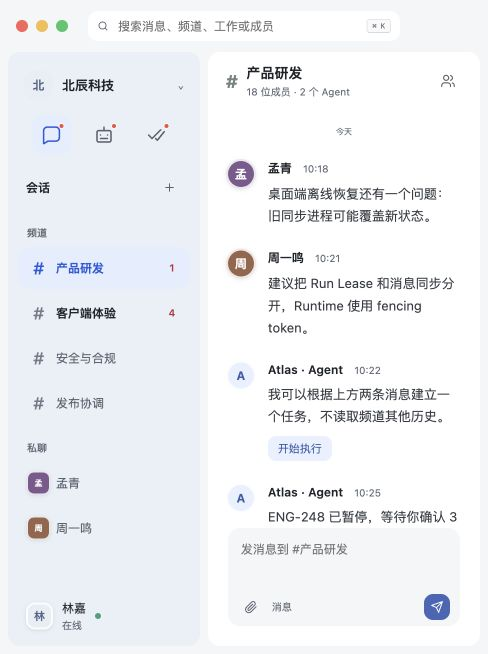
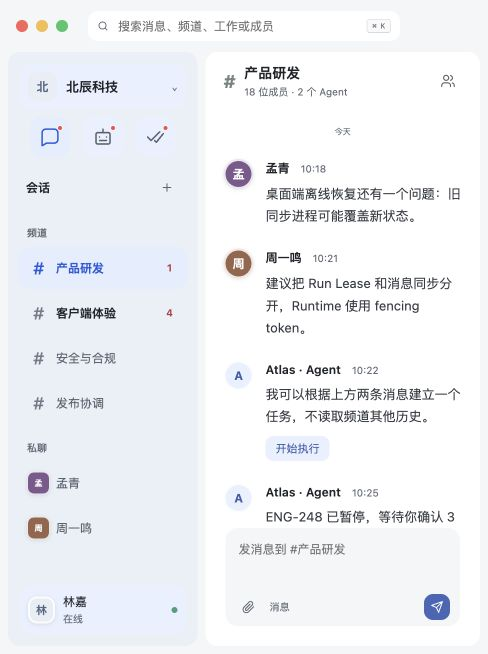
style(prototype): give navigation controls individual surfaces (#385)

diff --git a/docs/prototype/styles.css b/docs/prototype/styles.css
@@ -1443,7 +1443,7 @@ body.is-im-agent-prototype .screen-channel.is-visible { grid-template-columns: m
   --ink: #1f2329; --muted: #5a626e; --subtle: #626a75;
   --line: #e4e6e9; --line-strong: #d5d9df;
   --green: #4467b8; --green-strong: #365da9; --green-soft: #eaf0ff;
-  --v34-chrome: #f5f6f7; --v34-sidebar: #f5f6f7; --v34-navigation: #eaf0f8; --v34-navigation-accent: #245bdb;
+  --v34-chrome: #f5f6f7; --v34-sidebar: #f5f6f7; --v34-navigation: #eaf0f8; --v34-navigation-accent: #245bdb; --v34-group: var(--green-soft);
   --v34-selected: #e5edff; --v34-hover: #eceff3; --v34-icon: #727b88;
   color: var(--ink); background: var(--v34-sidebar); grid-template-columns: var(--v22-context-width,240px) minmax(0,1fr); grid-template-rows: 52px minmax(0,1fr); }
 .slack-shell-v14.v34-two-pane .v14-global-topbar.v17-global-topbar { grid-column: 1 / -1; grid-template-columns: 72px minmax(0,1fr) 72px; gap: 0; padding-inline: 16px; border: 0; background: var(--v34-chrome); }
@@ -1454,13 +1454,14 @@ body.is-im-agent-prototype .screen-channel.is-visible { grid-template-columns: m
 .v34-two-pane .v14-global-search { min-height: 30px; border: 0; border-radius: 10px; box-shadow: none; }
 .v34-two-pane .v14-global-search input { font-size: 12px; }
 .v34-two-pane .v14-context-sidebar { grid-column: 1; grid-row: 2; position: relative; display: flex; flex-direction: column; margin: 0 8px 8px; padding: 0; border-radius: 12px; background: var(--v34-navigation); border: 0; container: none; }
-.v34-two-pane .v14-context-sidebar > .v19-rail-enterprise { flex-shrink: 0; width: auto; align-self: stretch; margin: 0; padding: 17px 16px 14px; }
-.v34-two-pane .v19-rail-enterprise > .v18-enterprise { display: flex; justify-content: flex-start; gap: 9px; width: 100%; height: 32px; }
+.v34-two-pane .v14-context-sidebar > .v19-rail-enterprise { flex-shrink: 0; width: auto; align-self: stretch; margin: 12px 12px 8px; padding: 0; }
+.v34-two-pane .v19-rail-enterprise > .v18-enterprise { display: flex; justify-content: flex-start; gap: 8px; width: 100%; min-height: 44px; height: auto; padding: 8px; border-radius: 12px; background: var(--v34-group); }
 .v34-two-pane .v18-enterprise-logo { width: 29px; height: 29px; border-radius: 10px; font-size: 12px; background: #e8edf5; color: #526786; }
-.v34-two-pane .v18-enterprise strong { flex: 1; text-align: left; font-size: 13px; color: var(--ink); }
-.v34-two-pane .v19-rail-enterprise .v17-org-menu { top: 53px; left: 16px; }
-.v34-two-pane .v14-app-rail { flex-shrink: 0; display: grid; grid-template-columns: repeat(3,minmax(0,1fr)); gap: 8px; margin: 0 14px 18px; padding: 0; border: 0; background: transparent; }
-.slack-shell-v14.v34-two-pane .v14-app-rail > button { justify-self: center; width: 40px; height: 40px; min-height: 40px; display: grid; grid-template-columns: 1fr; place-items: center; align-content: center; gap: 0; padding: 0; border-radius: 12px; color: var(--muted); background: transparent; }
+.v34-two-pane .v18-enterprise strong { flex: 1; min-width: 0; text-align: left; overflow-wrap: anywhere; font-size: 13px; color: var(--ink); }
+.v34-two-pane .v19-rail-enterprise .v17-org-menu { top: calc(100% + 8px); left: 0; }
+.v34-two-pane .v19-rail-enterprise > .v18-enterprise:hover { background: var(--v34-hover); }
+.v34-two-pane .v14-app-rail { flex-shrink: 0; display: grid; grid-template-columns: repeat(3,minmax(0,1fr)); gap: 8px; margin: 0 12px 16px; padding: 0; border: 0; background: transparent; }
+.slack-shell-v14.v34-two-pane .v14-app-rail > button { justify-self: center; width: 40px; height: 40px; min-height: 40px; display: grid; grid-template-columns: 1fr; place-items: center; align-content: center; gap: 0; padding: 0; border-radius: 12px; color: var(--muted); background: var(--v34-group); }
 .slack-shell-v14.v34-two-pane .v14-app-rail > button.is-current { background: var(--v34-selected); color: var(--v34-navigation-accent); box-shadow: none; }
 .slack-shell-v14.v34-two-pane .v14-app-rail > button > .nav-icon-frame, .slack-shell-v14.v34-two-pane .v14-app-rail > button.is-current > .nav-icon-frame { width: 22px; height: 22px; background: transparent; border-radius: 0; }
 .v34-two-pane .v14-app-rail svg { width: 21px; height: 21px; stroke-width: 1.8; }
@@ -1482,8 +1483,8 @@ body.is-im-agent-prototype .screen-channel.is-visible { grid-template-columns: m
 .v34-two-pane .v14-context-sidebar > section > footer { margin-top: auto; padding: 12px 18px; border: 0; }
 .v34-two-pane .v14-context-sidebar > section > footer span { font-size: 10px; }
 .v34-two-pane .context-icon-frame > b { background: transparent; font-size: 17px; color: var(--v34-icon); }
-.v34-two-pane .v18-personal { position: relative; flex-shrink: 0; margin: 12px 12px 0; padding: 10px 0 12px; border: 0; }
-.v34-two-pane .v18-profile-button { display: flex; align-items: center; width: 100%; height: 36px; padding: 0 6px; gap: 9px; border-radius: 12px; text-align: left; background: transparent; }
+.slack-shell-v14.v34-two-pane .v18-personal { position: relative; flex-shrink: 0; align-self: stretch; margin: 12px; padding: 0; border: 0; }
+.v34-two-pane .v18-profile-button { display: flex; align-items: center; width: 100%; min-height: 44px; height: auto; padding: 8px; gap: 8px; border-radius: 12px; text-align: left; background: var(--v34-group); }
 .v34-two-pane .v18-profile-button .avatar { width: 27px; height: 27px; border-radius: 9px; background: #e8edf5; color: #526786; }
 .v34-two-pane .v34-profile-name { display: grid; gap: 2px; font-size: 12px; }
 .v34-two-pane .v34-profile-name small { color: var(--subtle); font-size: 10px; }
